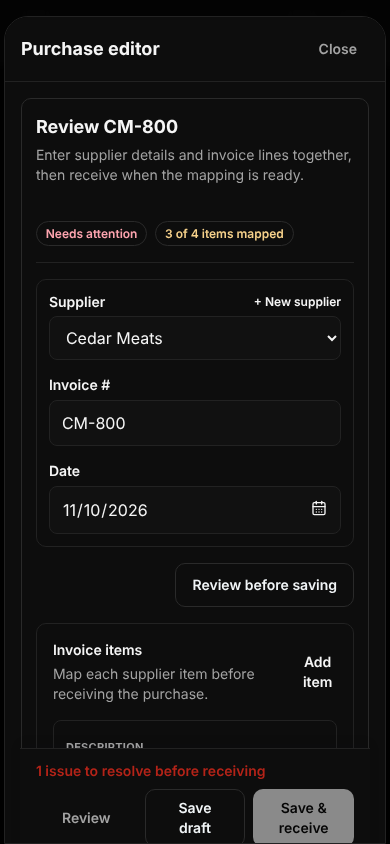
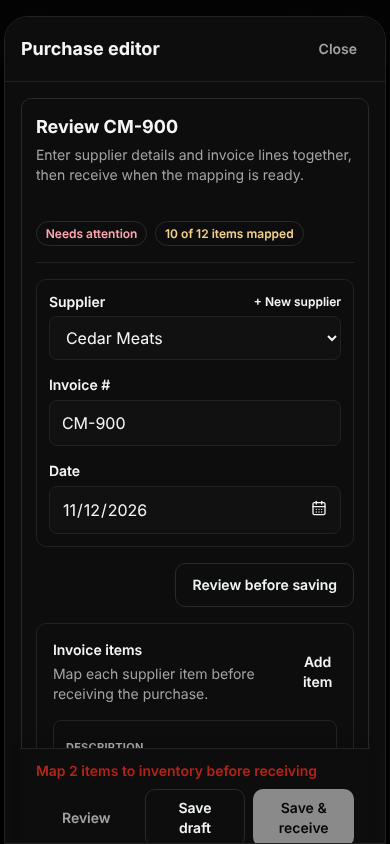
feat(purchases): confirm before discarding unsaved edits in the side panel; clearer mapping summary (#361 owner directive)
Claude-Session: https://claude.ai/code/session_01ETktyF1titGBDiqzNHiBcw

diff --git a/src/pilot/PilotPurchasesPage.tsx b/src/pilot/PilotPurchasesPage.tsx
@@ -199,6 +199,8 @@ export function PilotPurchasesPage() {
   const [saving, setSaving] = useState(false);
   // A void in flight also blocks switching purchases: its completion reloads the page state.
   const [voiding, setVoiding] = useState(false);
+  // An action (open another purchase, start a new one, close the panel) waiting for the owner to confirm discarding unsaved edits.
+  const [pendingDiscard, setPendingDiscard] = useState<(() => void) | null>(null);
   // A manual refresh in flight also blocks switching: it merges server data into whichever purchase is open.
   const [refreshing, setRefreshing] = useState(false);
   // Which action is in flight, so only that button announces progress ("Receiving..." must not show for a draft save).
@@ -370,6 +372,16 @@ export function PilotPurchasesPage() {
   const initialLoading = loading && !hasLoaded;
   // Saves, voids, OCR extraction and supplier/item creation all change the open purchase the open purchase when they finish, so none may overlap a switch.
   const navigationLocked = saving || voiding || ocrLoading || supplierSaving || inventoryItemSaving || refreshing;
+  // Side-panel layout only: the queue sits beside the editor, so leaving it must never silently drop unsaved edits.
+  const hasUnsavedEdits = () => {
+    if (!wideLayout || !editorOpen || finalizedStatus) return false;
+    if (!selectedInvoice) return draft.extractionStatus === "ocr" || JSON.stringify(draft) !== JSON.stringify(buildBlankDraft());
+    return JSON.stringify(draft) !== JSON.stringify(invoiceToDraft(selectedInvoice));
+  };
+  const guardUnsaved = (action: () => void) => {
+    if (hasUnsavedEdits()) setPendingDiscard(() => action);
+    else action();
+  };
   const finalizedStatus = draft.status === "Completed" || draft.status === "Corrected";
   const mappedLineCount = draft.lineItems.filter((line) => line.inventoryItemId).length;
   const unresolvedLineCount = draft.lineItems.filter((line) => !line.inventoryItemId).length;
@@ -936,7 +948,9 @@ export function PilotPurchasesPage() {
   };
 
   const editorStatus = purchaseStatus({ status: draft.status }, reviewSummary.state as "READY" | "REVIEW" | "BLOCKING");
-  const footerSummary = reviewSummary.blockers.length
+  const footerSummary = unresolvedLineCount > 0
+    ? `Map ${unresolvedLineCount} ${unresolvedLineCount === 1 ? "item" : "items"} to inventory before receiving`
+    : reviewSummary.blockers.length
     ? `${reviewSummary.blockers.length} ${reviewSummary.blockers.length === 1 ? "issue" : "issues"} to resolve before receiving`
     : reviewSummary.warnings.length
       ? "Check the highlighted items, then receive"
@@ -959,7 +973,7 @@ export function PilotPurchasesPage() {
       <Card className={`workspace-card w-full ${ocrLoading ? "pointer-events-none opacity-60" : ""}`} data-testid="purchase-editor-card" aria-busy={ocrLoading}>
         {ocrLoading ? <div role="status" className="mb-4 flex items-center gap-2 rounded-2xl border border-brand-200 bg-brand-50 px-4 py-3 text-sm font-semibold text-brand-900"><span className="h-4 w-4 animate-spin rounded-full border-2 border-brand-200 border-t-brand-700" />Reading invoice… Extracting supplier, totals, and line items.</div> : null}
         {!draft.id && !ocrPreviewUrl ? <div className="mb-4 flex flex-col gap-3 rounded-2xl border border-brand-100 bg-brand-50/50 p-3 sm:flex-row sm:items-center sm:justify-between"><div><p className="text-sm font-semibold text-ink">How would you like to add this purchase?</p><p className="mt-1 text-xs text-muted">Upload an invoice for OCR or enter the purchase details manually.</p></div><div className="flex flex-wrap gap-2"><input ref={ocrInputRef} className="sr-only" aria-label="Invoice file" type="file" accept=".jpg,.jpeg,.png,.webp,.pdf" onChange={(event) => { const file = event.target.files?.[0]; if (file) void uploadInvoice(file); }} /><Button variant="secondary" icon={<FileText className="h-4 w-4" />} type="button" onClick={() => ocrInputRef.current?.click()} disabled={ocrLoading || saving}>{ocrLoading ? "Processing invoice…" : "Upload invoice"}</Button><Button variant="ghost" type="button" onClick={() => editorPanelRef.current?.scrollIntoView({ behavior: "smooth", block: "start" })}>Enter manually</Button></div></div> : null}
-        {error ? <div role="alert" className="mb-4 rounded-2xl border border-amber-200 bg-amber-50 px-4 py-3 text-sm text-amber-900"><p>{error}</p>{duplicateInvoiceId ? <Button variant="ghost" type="button" className="mt-2" onClick={() => void openInvoice(duplicateInvoiceId)}>Open existing purchase</Button> : null}</div> : null}
+        {error ? <div role="alert" className="mb-4 rounded-2xl border border-amber-200 bg-amber-50 px-4 py-3 text-sm text-amber-900"><p>{error}</p>{duplicateInvoiceId ? <Button variant="ghost" type="button" className="mt-2" onClick={() => guardUnsaved(() => void openInvoice(duplicateInvoiceId))}>Open existing purchase</Button> : null}</div> : null}
         <div className="flex flex-col gap-3 border-b border-line pb-4 sm:flex-row sm:items-start sm:justify-between">
           <SectionHeader
             title={draft.id ? `Review ${draft.invoiceNumber}` : draft.extractionStatus === "ocr" ? (draft.invoiceNumber ? `Review ${draft.invoiceNumber}` : "Review invoice") : "New purchase"}
@@ -968,7 +982,7 @@ export function PilotPurchasesPage() {
           <div className="flex flex-wrap items-center gap-2 text-xs sm:justify-end">
             <Badge tone={editorStatus.tone}>{editorStatus.label}</Badge>
             <Badge tone={unresolvedLineCount > 0 ? "warning" : "success"}>{mappedLineCount} of {draft.lineItems.length} items mapped</Badge>
-            {wideLayout ? <Button variant="ghost" type="button" onClick={() => setEditorOpen(false)}>Close panel</Button> : null}
+            {wideLayout ? <Button variant="ghost" type="button" disabled={navigationLocked} onClick={() => guardUnsaved(() => setEditorOpen(false))}>Close panel</Button> : null}
           </div>
         </div>
 
@@ -1223,7 +1237,7 @@ export function PilotPurchasesPage() {
                 <div className="rounded-2xl border border-line bg-slate-50 p-4 text-sm text-muted">
                   <p className="font-semibold text-ink">Corrected copy of a voided invoice</p>
                   <p className="mt-1">Check the numbers against the supplier&apos;s corrected invoice, then receive it as a new purchase. The invoice number was suffixed so it can be saved; change it if the supplier issued a new one.</p>
-                  <Button className="mt-3" variant="secondary" type="button" onClick={() => void openInvoice(draft.correctsInvoiceId as number)}>
+                  <Button className="mt-3" variant="secondary" type="button" onClick={() => guardUnsaved(() => void openInvoice(draft.correctsInvoiceId as number))}>
                     Open voided original
                   </Button>
                 </div>
@@ -1279,14 +1293,14 @@ export function PilotPurchasesPage() {
               icon={<Plus className="h-4 w-4" />}
               type="button"
               disabled={navigationLocked}
-              onClick={() => {
+              onClick={() => guardUnsaved(() => {
                 setSelectedId(null);
                 setReceiveMessage(null);
                 setDraft(buildBlankDraft());
                 clearOcrReview();
                 setShowReview(false);
                 setEditorOpen(true);
-              }}
+              })}
             >
               New purchase
             </Button>
@@ -1340,7 +1354,7 @@ export function PilotPurchasesPage() {
                 const status = purchaseStatus(invoice);
                 const active = selectedId === invoice.id && editorOpen;
                 return (
-                  <button key={invoice.id} type="button" data-queue-item disabled={navigationLocked} aria-current={active ? "true" : undefined} onClick={() => void openInvoice(invoice.id)} className={`purchase-review-item w-full rounded-xl border px-3 py-3 text-left transition hover:shadow-soft ${active ? "border-brand-400 bg-brand-50 ring-2 ring-brand-200" : "border-amber-200 bg-amber-50/50"}`}>
+                  <button key={invoice.id} type="button" data-queue-item disabled={navigationLocked} aria-current={active ? "true" : undefined} onClick={() => guardUnsaved(() => void openInvoice(invoice.id))} className={`purchase-review-item w-full rounded-xl border px-3 py-3 text-left transition hover:shadow-soft ${active ? "border-brand-400 bg-brand-50 ring-2 ring-brand-200" : "border-amber-200 bg-amber-50/50"}`}>
                     <div className="flex items-start justify-between gap-3"><div><p className="font-semibold text-ink">{invoice.supplier?.name ?? "Supplier"}</p><p className="text-sm text-muted">{invoice.invoiceNumber} • {formatDate(invoice.invoiceDate)}</p></div><Badge tone={status.tone}>{status.label}</Badge></div>
                     <div className="mt-2 flex flex-wrap items-center justify-between gap-2 text-sm text-muted"><span>{formatMoney(invoice.totalAmount)}</span><span>{invoice.lineItems.length} lines · {invoice.reviewSummary?.mappedLineCount ?? 0}/{invoice.lineItems.length} matched</span></div>
                     {invoice.reviewSummary?.blockers?.[0] ? <p className="mt-2 text-xs text-danger">{invoice.reviewSummary.blockers[0]}</p> : invoice.reviewSummary?.warnings?.[0] ? <p className="mt-2 text-xs text-muted">{invoice.reviewSummary.warnings[0]}</p> : null}
@@ -1358,7 +1372,7 @@ export function PilotPurchasesPage() {
                 const status = purchaseStatus(invoice);
                 const active = detailInvoice?.id === invoice.id;
                 return (
-                  <button key={invoice.id} type="button" data-queue-item disabled={navigationLocked} aria-current={active ? "true" : undefined} onClick={() => void openInvoice(invoice.id)} className={`w-full rounded-xl border px-3 py-3 text-left transition hover:shadow-soft ${active || selectedInvoice?.id === invoice.id ? "border-brand-400 bg-brand-50 ring-2 ring-brand-200" : "border-line bg-slate-50"}`}>
+                  <button key={invoice.id} type="button" data-queue-item disabled={navigationLocked} aria-current={active ? "true" : undefined} onClick={() => guardUnsaved(() => void openInvoice(invoice.id))} className={`w-full rounded-xl border px-3 py-3 text-left transition hover:shadow-soft ${active || selectedInvoice?.id === invoice.id ? "border-brand-400 bg-brand-50 ring-2 ring-brand-200" : "border-line bg-slate-50"}`}>
                     <div className="flex items-start justify-between gap-3">
                       <div>
                         <p className="font-semibold text-ink">{invoice.supplier?.name ?? "Supplier"}</p>
@@ -1396,6 +1410,15 @@ export function PilotPurchasesPage() {
         ) : null}
       </div>
 
+      {pendingDiscard ? (
+        <Modal title="Discard unsaved changes?" size="small" onClose={() => setPendingDiscard(null)}>
+          <p className="text-sm text-muted">This purchase has edits that are not saved. Save a draft first, or discard the edits and continue.</p>
+          <div className="mt-4 flex justify-end gap-2">
+            <Button variant="secondary" type="button" onClick={() => setPendingDiscard(null)}>Keep editing</Button>
+            <Button type="button" onClick={() => { const action = pendingDiscard; setPendingDiscard(null); action(); }}>Discard changes</Button>
+          </div>
+        </Modal>
+      ) : null}
       {receiveConfirmOpen ? (
         <Modal title="Confirm receipt" size="small" onClose={() => { if (!saving) setReceiveConfirmOpen(false); }}>
           <p className="text-sm text-muted">This will update inventory for {draft.lineItems.length} mapped invoice {draft.lineItems.length === 1 ? "line" : "lines"} and record the receipt. Confirm only after reviewing the quantities and costs.</p>

diff --git a/tests/e2e/purchases-receive.spec.ts b/tests/e2e/purchases-receive.spec.ts
@@ -230,6 +230,9 @@ for (const viewport of VIEWPORTS) {
       const alert = editor.getByRole("alert").filter({ hasText: "Duplicate invoice." });
       await expect(alert).toContainText("already exists");
       await alert.getByRole("button", { name: "Open existing purchase" }).click();
+      // At desktop width the unsaved draft is protected: leaving it asks first.
+      const discard = page.getByRole("dialog", { name: "Discard unsaved changes?" });
+      if (viewport.width >= 1280) await discard.getByRole("button", { name: "Discard changes" }).click();
       const detail = page.getByTestId("purchase-detail-modal");
       await expect(detail).toBeVisible();
       await expect(detail).toContainText("CM-2001");
@@ -440,6 +443,7 @@ test.describe("purchase queue while a supplier is being added at 1440px", () => 
     await expect(page.getByText("Harbour Fish Co added and selected.").first()).toBeVisible();
     await expect(queue.getByRole("button", { name: /CM-760/ })).toBeEnabled();
     await queue.getByRole("button", { name: /CM-760/ }).click();
+    await page.getByRole("dialog", { name: "Discard unsaved changes?" }).getByRole("button", { name: "Discard changes" }).click(); // the new purchase had unsaved edits
     await expect(editor.getByLabel("Supplier", { exact: true })).toHaveValue("Cedar Meats"); // B kept its own supplier
   });
 });
@@ -487,3 +491,81 @@ test.describe("switching purchases while a refresh is in flight at 1440px", () =
     await expect(editor.getByLabel("Invoice number")).toHaveValue("CM-781-EDITED");
   });
 });
+
+test.describe("unsaved edits in the side panel at 1440px", () => {
+  test.use({ viewport: { width: 1440, height: 900 } });
+
+  test("leaving a purchase with unsaved edits asks first; a clean or saved purchase switches freely", async ({ page }) => {
+    const world = newWorld();
+    world.invoices.push(
+      { id: 790, invoiceNumber: "CM-790", status: "Draft", invoiceDate: "2026-11-11", subtotal: 4, tax: 0, totalAmount: 4, lineItems: [savedLine(790, 0)] },
+      { id: 791, invoiceNumber: "CM-791", status: "Draft", invoiceDate: "2026-11-12", subtotal: 4, tax: 0, totalAmount: 4, lineItems: [savedLine(791, 0)] },
+    );
+    await installWorld(page, world);
+    await page.goto("/app/purchases", { waitUntil: "domcontentloaded" });
+    const queue = page.getByTestId("purchase-queue");
+    const editor = page.getByTestId("purchase-editor-card");
+    const number = editor.getByLabel("Invoice number");
+
+    await queue.getByRole("button", { name: /CM-790/ }).click();
+    await queue.getByRole("button", { name: /CM-791/ }).click(); // clean: no prompt
+    await expect(number).toHaveValue("CM-791");
+    await expect(page.getByRole("dialog")).toHaveCount(0);
+
+    await number.fill("CM-791-EDITED");
+    await queue.getByRole("button", { name: /CM-790/ }).click();
+    const dialog = page.getByRole("dialog", { name: "Discard unsaved changes?" });
+    await expect(dialog).toBeVisible();
+    await dialog.getByRole("button", { name: "Keep editing" }).click();
+    await expect(number).toHaveValue("CM-791-EDITED"); // nothing lost
+
+    await page.getByRole("button", { name: "New purchase" }).click();
+    await expect(dialog).toBeVisible();
+    await dialog.getByRole("button", { name: "Keep editing" }).click();
+    await expect(number).toHaveValue("CM-791-EDITED");
+
+    await editor.getByTestId("purchase-action-bar").getByRole("button", { name: "Save draft" }).click(); // saved: baseline moves
+    await expect(page.getByText("Invoice CM-791-EDITED saved successfully.").first()).toBeVisible();
+    await queue.getByRole("button", { name: /CM-790/ }).click();
+    await expect(dialog).toHaveCount(0);
+    await expect(number).toHaveValue("CM-790");
+
+    await number.fill("CM-790-EDITED");
+    await queue.getByRole("button", { name: /CM-791/ }).click();
+    await dialog.getByRole("button", { name: "Discard changes" }).click();
+    await expect(number).toHaveValue("CM-791-EDITED");
+    expect(world.posts.filter((post) => post.method === "PATCH")).toHaveLength(1); // the discarded edit was never sent
+  });
+});
+
+for (const viewport of VIEWPORTS) {
+  test.describe(`realistic multi-line invoice at ${viewport.width}px`, () => {
+    test.use({ viewport });
+
+    test("12 lines with unmapped items and a cost warning: no overflow, mapping issues visible, actions pinned", async ({ page }) => {
+      const world = newWorld();
+      const lines = Array.from({ length: 12 }, (_, index) => ({
+        ...savedLine(900, index, index === 3 ? 4.6 : 4),
+        description: index === 5 || index === 9 ? `Specialty sauce ${index} 4L case` : `Chicken breast fresh boneless skinless 2kg tray ${index + 1}`,
+        inventoryItemId: index === 5 || index === 9 ? null : 30,
+      }));
+      world.invoices.push({ id: 900, invoiceNumber: "CM-900", status: "Draft", invoiceDate: "2026-11-12", subtotal: 48.6, tax: 0, totalAmount: 48.6, lineItems: lines });
+      await installWorld(page, world);
+      await page.goto("/app/purchases", { waitUntil: "domcontentloaded" });
+      await page.getByRole("button", { name: /CM-900/ }).click();
+      const editor = page.getByTestId("purchase-editor-card");
+      await expect(editor.getByTestId("purchase-line-11")).toBeAttached();
+      await expect(editor.getByText("Cost up 15% vs average cost")).toBeVisible();
+      const bar = editor.getByTestId("purchase-action-bar");
+      await expect(bar).toContainText("Map 2 items to inventory before receiving");
+      await expect(editor.getByRole("button", { name: "Save & receive" })).toBeDisabled();
+      await expect(editor.getByText("Needs mapping")).toHaveCount(2);
+      await page.evaluate(() => window.scrollTo(0, 0));
+      await expect(bar).toBeInViewport();
+      await expectNoOverflow(page);
+      await editor.getByTestId("purchase-line-11").scrollIntoViewIfNeeded();
+      await expect(bar).toBeInViewport();
+      await expectNoOverflow(page);
+    });
+  });
+}

diff --git a/review-artifacts/purchases-master-detail/README.md b/review-artifacts/purchases-master-detail/README.md
@@ -1,3 +1,4 @@
-Browser acceptance screenshots for the Purchases master/detail panel (#351). Fake API (tests/e2e/purchases-receive.spec.ts world), dark theme.
-- purchases-1440.png: queue left, editor in the right panel, pinned action bar.
-- purchases-768.png / purchases-390.png: full-screen sheet; `-lines.png` shows the compact line rows with the pinned bar.
+Browser acceptance screenshots for the Purchases master/detail panel (#351, PR #361). Fake API (tests/e2e/purchases-receive.spec.ts world), dark theme, a 12-line invoice with two unmapped items and one cost warning.
+- purchases-1440.png / purchases-1440-lines.png: queue left, editor in the right panel, pinned action bar.
+- purchases-768*.png / purchases-390*.png: full-screen sheet with the same pinned bar.
+The queue's "0/12 matched" is a fake-API artifact (the fake sends no server review summary).
